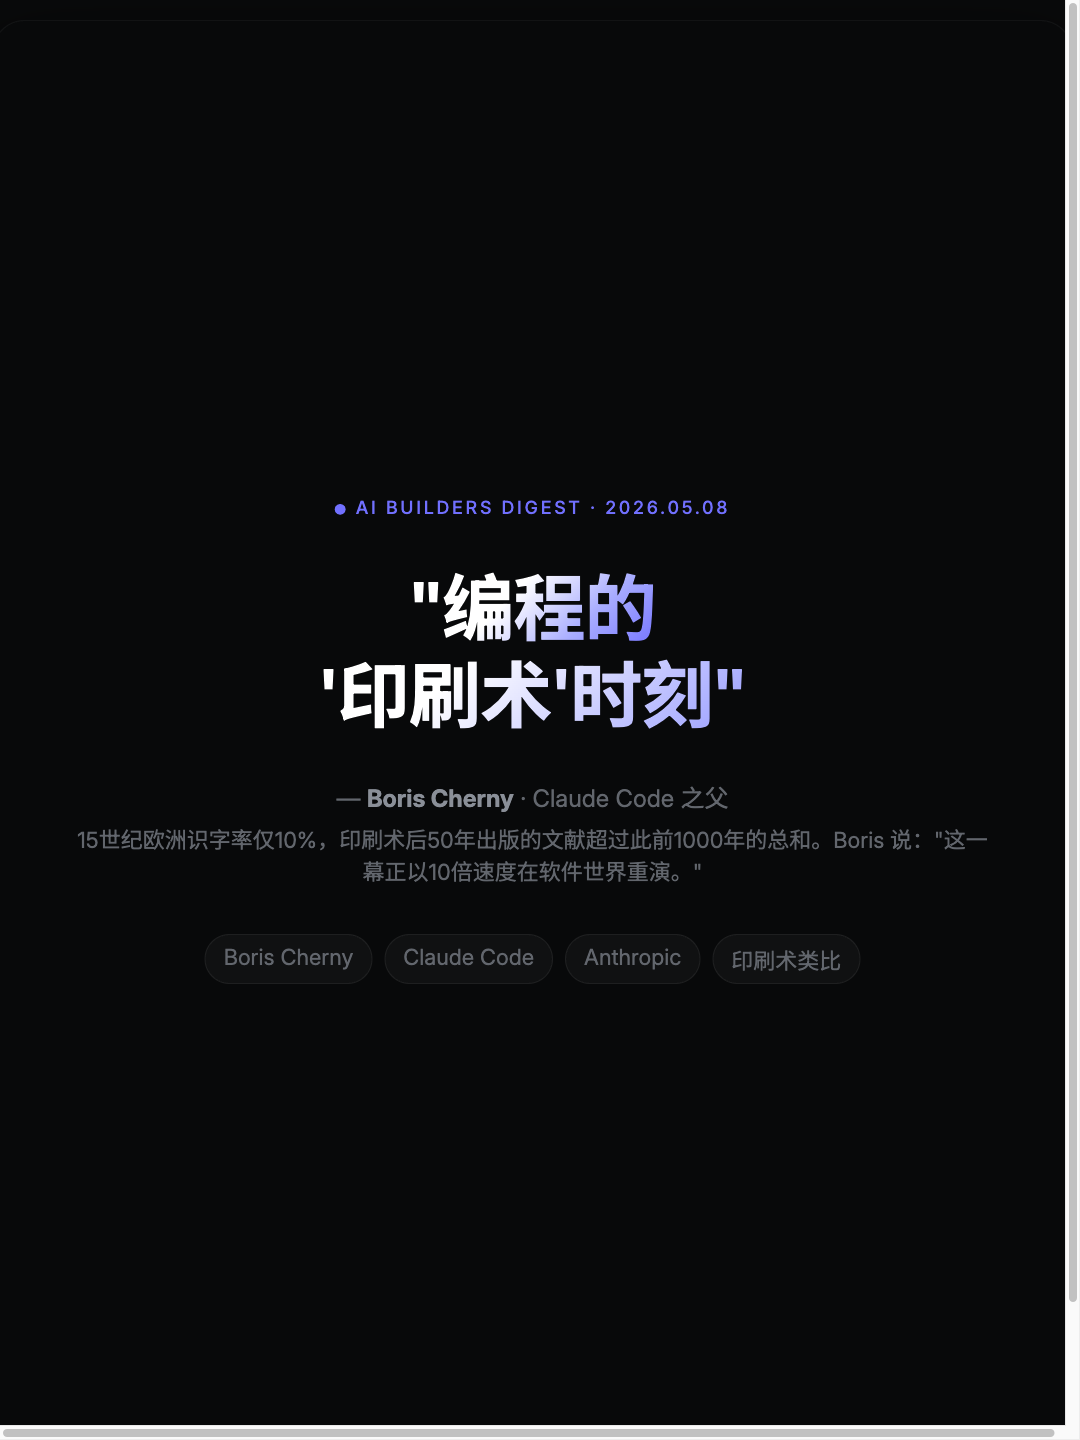
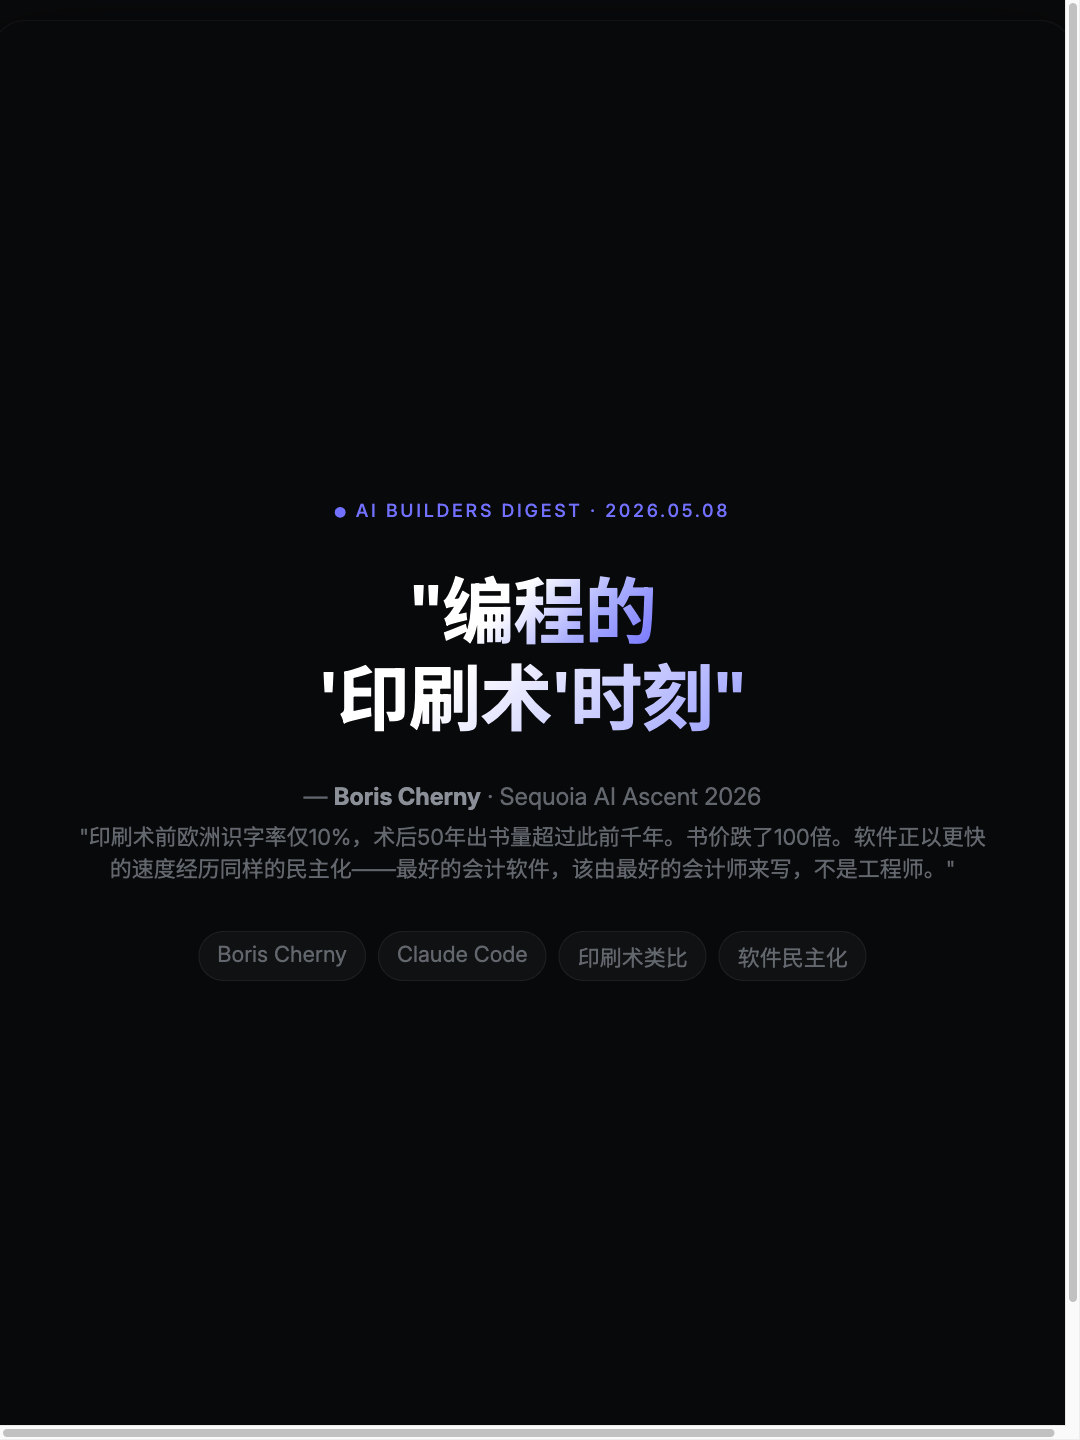
update: 0508 cards with actual Boris Cherny transcript content
Based on ~28KB full transcript from Sequoia AI Ascent 2026:
- Cover: same punchy '编程的印刷术时刻', context updated with actual quotes (book price 100x drop, best accountant writes software)
- Page 2: Three blocks from real transcript — Coding is Solved (150 PRs/day, no hand-written code at Anthropic), Loops (always-on agents, 4.7 proactively suggests loops), Printing Press (10%→70% literacy, price drop 100x)
- Page 3: Question reframed to 'when coding is not the bottleneck, what decides?' Answer based on Boris's 7 Powers analysis — switching costs/process power eroded, network effects/scale economies intact, cross-disciplinary generalists are new scarce resource

diff --git a/docs/20260508.html b/docs/20260508.html
@@ -327,46 +327,47 @@
         <span class="gradient">"编程的</span>
         <span class="gradient block">'印刷术'时刻"</span>
       </div>
-      <div class="pq-byline">— <strong>Boris Cherny</strong> · Claude Code 之父</div>
-      <div class="pq-context">15世纪欧洲识字率仅10%，印刷术后50年出版的文献超过此前1000年的总和。Boris 说："这一幕正以10倍速度在软件世界重演。"</div>
+      <div class="pq-byline">— <strong>Boris Cherny</strong> · Sequoia AI Ascent 2026</div>
+      <div class="pq-context">"印刷术前欧洲识字率仅10%，术后50年出书量超过此前千年。书价跌了100倍。软件正以更快的速度经历同样的民主化——最好的会计软件，该由最好的会计师来写，不是工程师。"</div>
       <div class="pq-tags">
         <span>Boris Cherny</span>
         <span>Claude Code</span>
-        <span>Anthropic</span>
         <span>印刷术类比</span>
+        <span>软件民主化</span>
       </div>
     </div>
 
     <!-- ============================================ -->
-    <!-- 第2页：观点解析 — SaaSpocalypse + 跨领域通才 -->
+    <!-- 第2页：观点解析 — Coding is Solved + Loops + 印刷术 -->
     <!-- ============================================ -->
     <div class="card">
       <div class="page-top">
         <span class="label">● 观点解析</span>
         <span class="page-num">02 / 03</span>
       </div>
-      <div class="analysis-title">当编码变成"会发短信"一样的基本技能</div>
+      <div class="analysis-title">Boris 眼中的编码未来</div>
 
       <div class="analysis-body">
         <div class="analysis-block">
-          <div class="ab-title"><span class="emoji">💥</span>SaaSpocalypse 的真正冲击</div>
+          <div class="ab-title"><span class="emoji">💥</span>Coding is Solved</div>
           <div class="ab-body">
-            切换成本和流程优势将贬值——<strong>模型自己就能理解和执行流程</strong>。但 <span class="accent-text">网络效应、规模经济和稀缺资源</span> 仍然有效。未来十年，能颠覆一切的创业公司数量将 <strong>增长 10 倍</strong>——因为小团队可以完全原生地拥抱 AI，而大公司受制于既有流程和组织惯性。
-          </div>
-          <div class="ab-quote">"最好的会计软件应该由最优秀的会计师来写，而非工程师。"</div>
-        </div>
-
-        <div class="analysis-block">
-          <div class="ab-title"><span class="emoji">🔄</span>Loops 是未来的范式</div>
-          <div class="ab-body">
-            Boris 用 Claude 自带的 <code>/loop</code> 跑着几十个循环任务：自动 rebase PR、修复 CI 和 flaky test、每 30 分钟抓取 Twitter 反馈并聚类。<strong>Claude Code 团队所有人都会写代码</strong>——包括工程经理、产品经理、设计师、数据科学家，甚至财务和用户研究员。
+            Boris 自己 <strong>100% 用模型写代码</strong>，一天提交多达 150 个 PR。Claude Code 团队全员写代码——工程经理、产品经理、设计师、数据科学家、财务、用户研究员，人人都会。<strong>Anthropic 全公司不再有手写代码</strong>，所有 SQL 全部由模型生成。两年前还有点像 type-ahead（按 Tab 补全一行），现在已经是完整的 Agent 写全部逻辑了。
           </div>
         </div>
 
         <div class="analysis-block">
-          <div class="ab-title"><span class="emoji">📜</span>印刷术的类比</div>
+          <div class="ab-title"><span class="emoji">🔄</span>Loops：永远在线的 Agent</div>
           <div class="ab-body">
-            15 世纪欧洲识字率仅 10%，印刷术发明后 50 年内出版的文献超过此前 1000 年的总和。今天，<strong>软件的民主化将以更快的速度发生</strong>。Boris 描绘的未来不是"程序员会失业"，而是"人人都是程序员"——就像今天人人都会读写一样。
+            Boris 日常跑着 <strong>几十个 /loop 循环任务</strong>：自动 rebase PR、修复 flaky test、每 30 分钟抓取 Twitter 反馈并聚类。Claude 4.7 已经开始 <strong>主动提议开 loop</strong>——"我注意到数据在变化，让我开个循环每 30 分钟给你发 Slack 报告。"<br><br>
+            <span class="accent-text">Loops 和子 Agent 正在取代传统的 CI/CD 流水线。</span>
+          </div>
+        </div>
+
+        <div class="analysis-block">
+          <div class="ab-title"><span class="emoji">📜</span>印刷术的软件版本</div>
+          <div class="ab-body">
+            印刷术前欧洲识字率仅 10%，印刷术后 50 年出书量超过此前千年。书价跌了 100 倍。几百年后全球识字率升到 70%。<strong>软件正在经历完全一样的民主化</strong>——而且只会更快。以前需要学 TypeScript 和框架才能写代码，以后只需要懂业务。<br><br>
+            <span class="accent-text">"最好的会计软件，该由最好的会计师来写。"</span>
           </div>
         </div>
       </div>
@@ -387,25 +388,26 @@
       </div>
 
       <div class="pf-question">
-        当<span class="accent">每个人</span>都能用自然语言<br>制造软件时，什么变得<br><span class="accent">真正稀缺</span>？
+        当编码不再是瓶颈，<br><span class="accent">什么决定</span>胜负？
       </div>
 
       <div class="pf-answer-box">
         <div class="pf-label">● 答案</div>
         <div class="pf-answer">
-          <strong>判断力</strong>（知道该造什么）、<strong>品味</strong>（知道什么算好）、<strong>网络效应</strong>（用户规模构成的壁垒）、以及<strong>提出正确问题的能力</strong>。工具越强大，方向感越值钱。<br><br>
-          Boris 的答案很直白："未来十年，最好的创业时机就是现在——因为大部分既有护城河正在消失，而新的护城河只属于那些 <strong>已经用 AI 原生方式工作</strong> 的人。"
+          <strong>转换成本和流程优势被 AI 削弱了</strong>——模型自己能理解和执行流程，随时可以从一个工具迁移到另一个。但 <strong>网络效应、规模经济和稀缺资源</strong> 仍然坚挺。<br><br>
+          新的稀缺资源是 <strong>跨学科通才</strong>：兼懂产品+设计+工程+数据科学的人。而最大的结构性机会属于 <strong>从零开始拥抱 AI 的创业公司</strong>——它们没有组织惯性的包袱。<br><br>
+          "这是最好的创业时代。小团队可以构建与大公司同等价值的产品，因为大公司需要花 5 年迁移到云端，而你只需要一个 prompt。"
         </div>
       </div>
 
       <div class="pf-grid">
         <div class="pf-card">
-          <div class="pf-num">10×</div>
-          <div class="pf-desc">可颠覆性创业公司数量增长</div>
+          <div class="pf-num">150</div>
+          <div class="pf-desc">Boris 单日 PR 记录</div>
         </div>
         <div class="pf-card">
-          <div class="pf-num">100%</div>
-          <div class="pf-desc">Claude Code 团队全员写代码</div>
+          <div class="pf-num">10×</div>
+          <div class="pf-desc">未来十年颠覆性创业公司增长</div>
         </div>
       </div>
 
